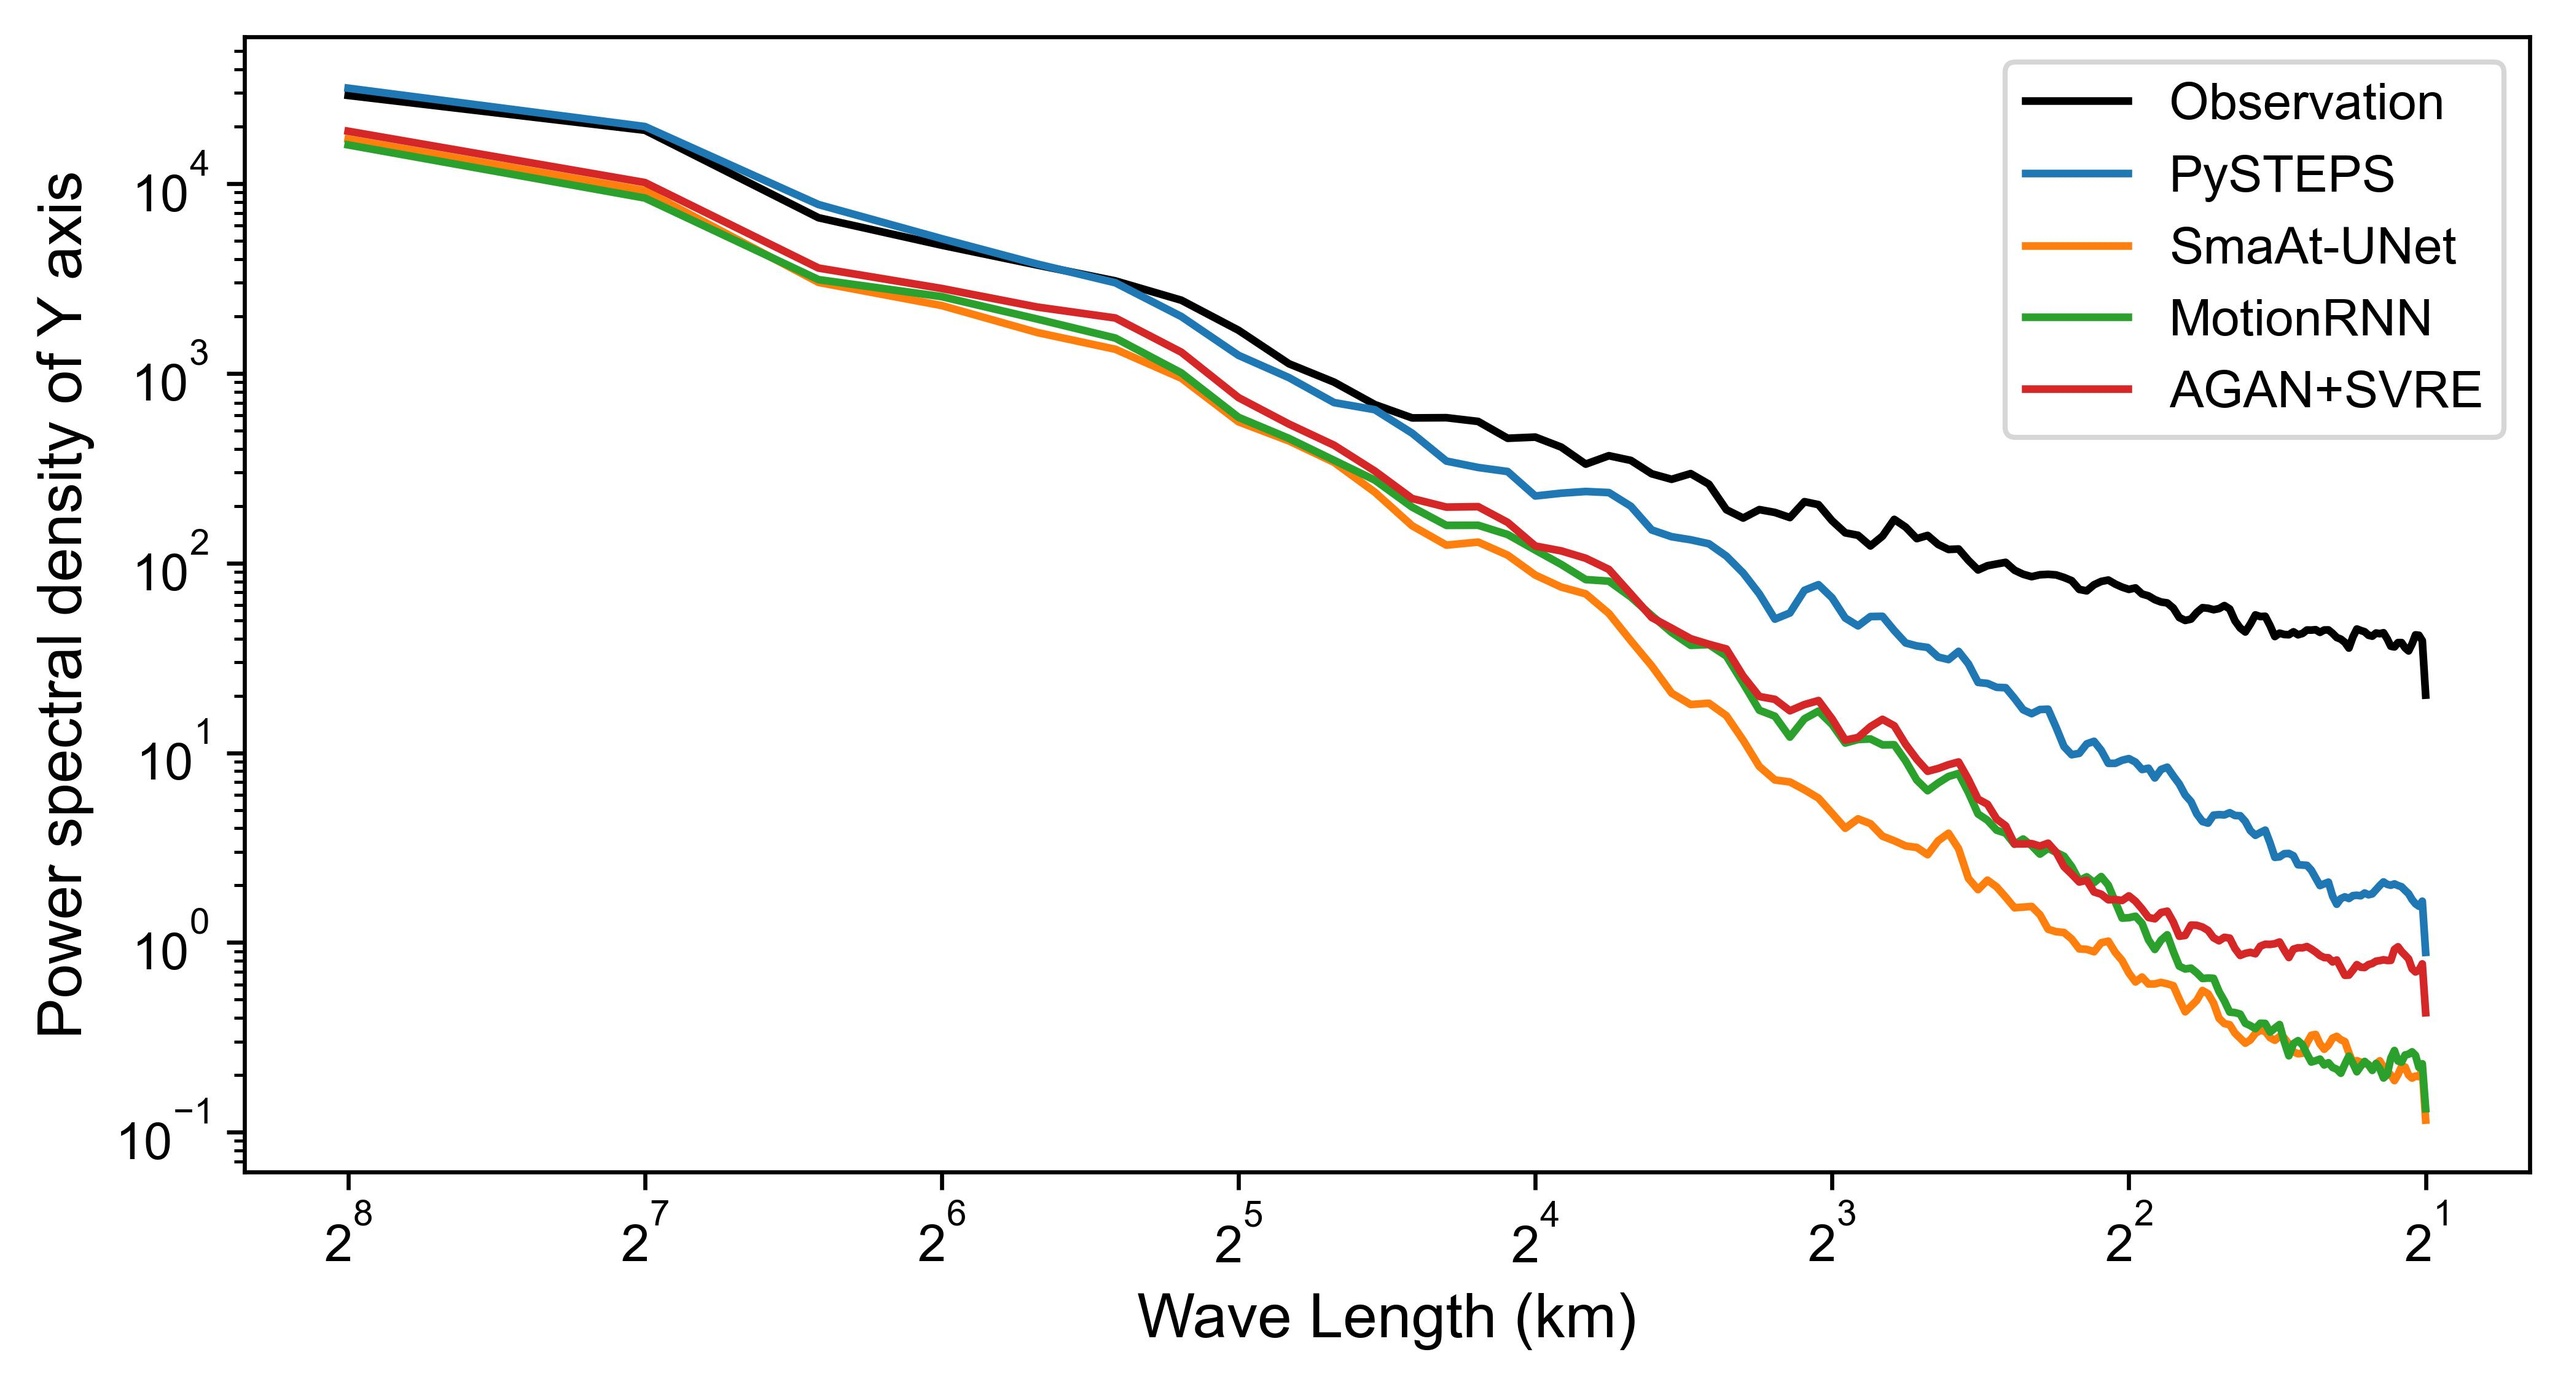
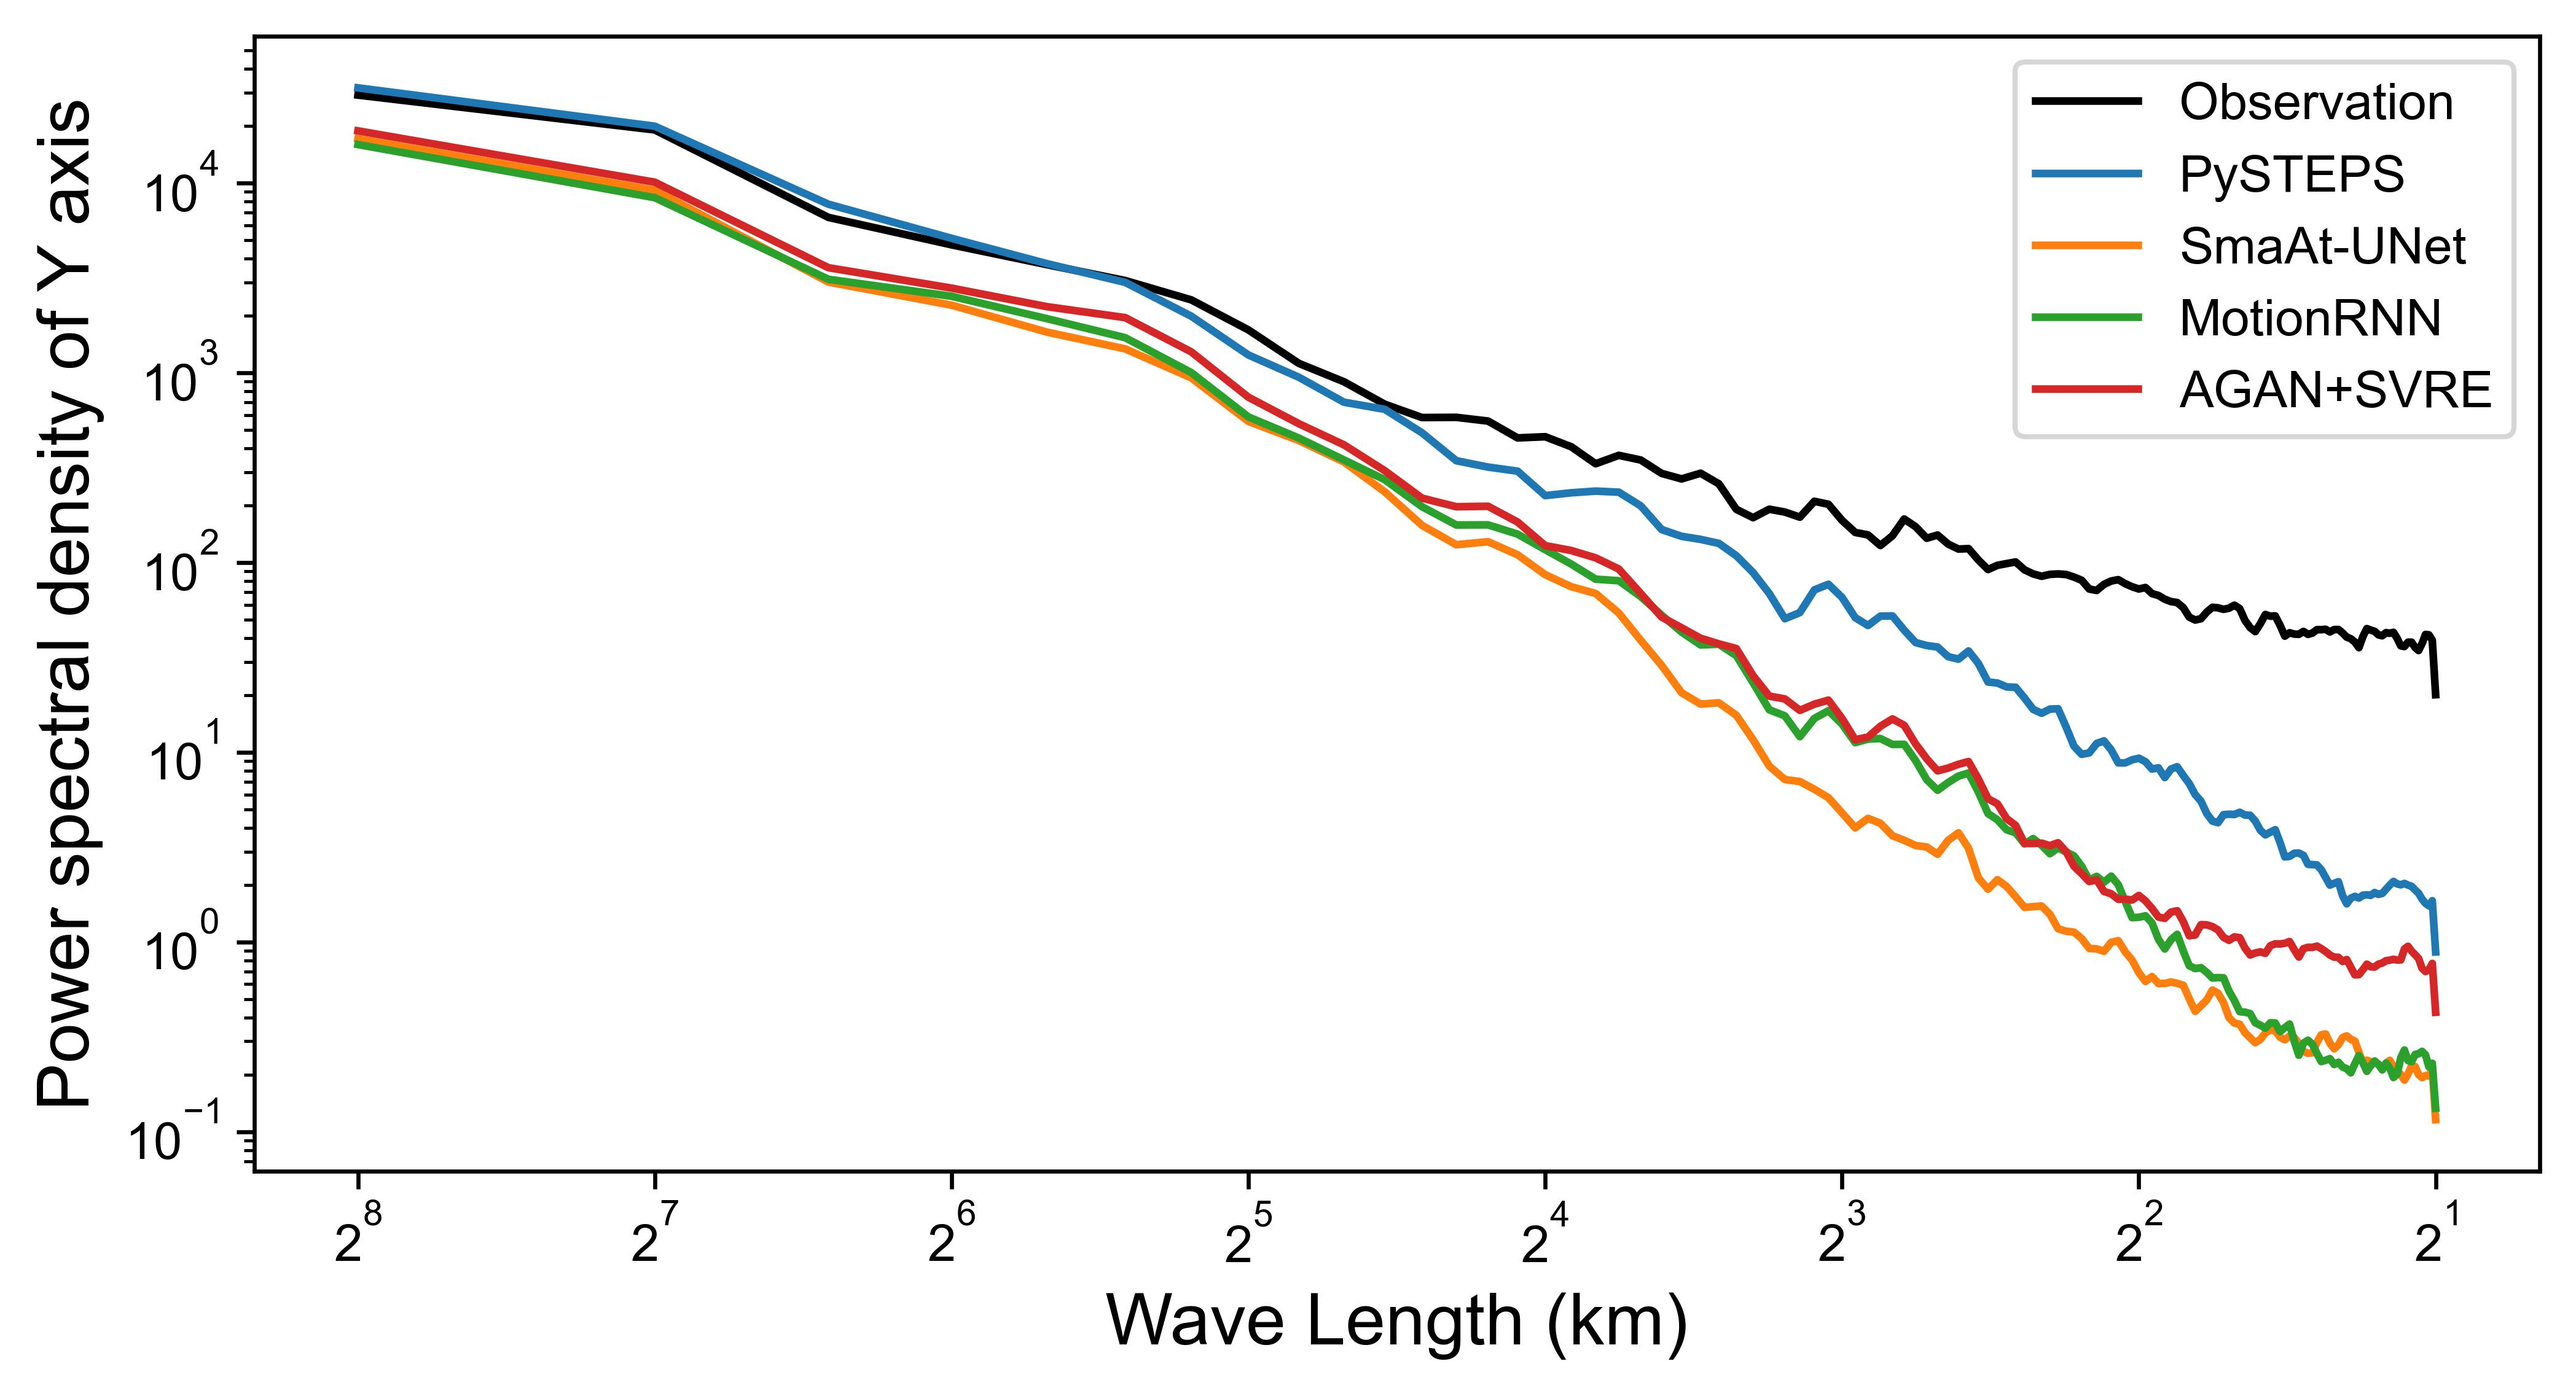
Update PSD plot

diff --git a/analysis/plot_figs.py b/analysis/plot_figs.py
@@ -157,15 +157,15 @@ def plot_psd(model_names, model_dirs, stage, img_path_1, img_path_2):
     ax1.set_xscale('log', base=2)
     ax1.set_yscale('log', base=10)
     ax1.invert_xaxis()
-    ax1.set_xlabel('Wave Length (km)', fontsize=12)
-    ax1.set_ylabel('Power spectral density of X axis', fontsize=12)
+    ax1.set_xlabel('Wave Length (km)', fontsize=14)
+    ax1.set_ylabel('Power spectral density of X axis', fontsize=14)
     ax1.legend(legend)
 
     ax2.set_xscale('log', base=2)
     ax2.set_yscale('log', base=10)
     ax2.invert_xaxis()
-    ax2.set_xlabel('Wave Length (km)', fontsize=12)
-    ax2.set_ylabel('Power spectral density of Y axis', fontsize=12)
+    ax2.set_xlabel('Wave Length (km)', fontsize=14)
+    ax2.set_ylabel('Power spectral density of Y axis', fontsize=14)
     ax2.legend(legend)
 
     fig1.savefig(img_path_1, bbox_inches='tight')
@@ -194,6 +194,6 @@ if __name__ == '__main__':
                       'results/AttnUNet_SVRE', 'results/AttnUNet_GA', 'results/AttnUNet_GASVRE'])
     plot_psd_comparison(['PySTEPS', 'SmaAt-UNet', 'MotionRNN', 'AGAN+SVRE'], ['results/PySTEPS',
                         'results/SmaAt_UNet', 'results/MotionRNN', 'results/AttnUNet_GASVRE'])
-    plot_all(['PySTEPS', 'SmaAt-UNet', 'MotionRNN', 'AGAN(g)', 'AGAN(g)+SVRE', 'AGAN', 'AGAN+SVRE'], 
-             ['results/PySTEPS', 'results/SmaAt_UNet', 'results/MotionRNN', 'results/AttnUNet',
-              'results/AttnUNet_SVRE', 'results/AttnUNet_GA', 'results/AttnUNet_GASVRE'])
+    # plot_all(['PySTEPS', 'SmaAt-UNet', 'MotionRNN', 'AGAN(g)', 'AGAN(g)+SVRE', 'AGAN', 'AGAN+SVRE'], 
+    #          ['results/PySTEPS', 'results/SmaAt_UNet', 'results/MotionRNN', 'results/AttnUNet',
+    #           'results/AttnUNet_SVRE', 'results/AttnUNet_GA', 'results/AttnUNet_GASVRE'])
